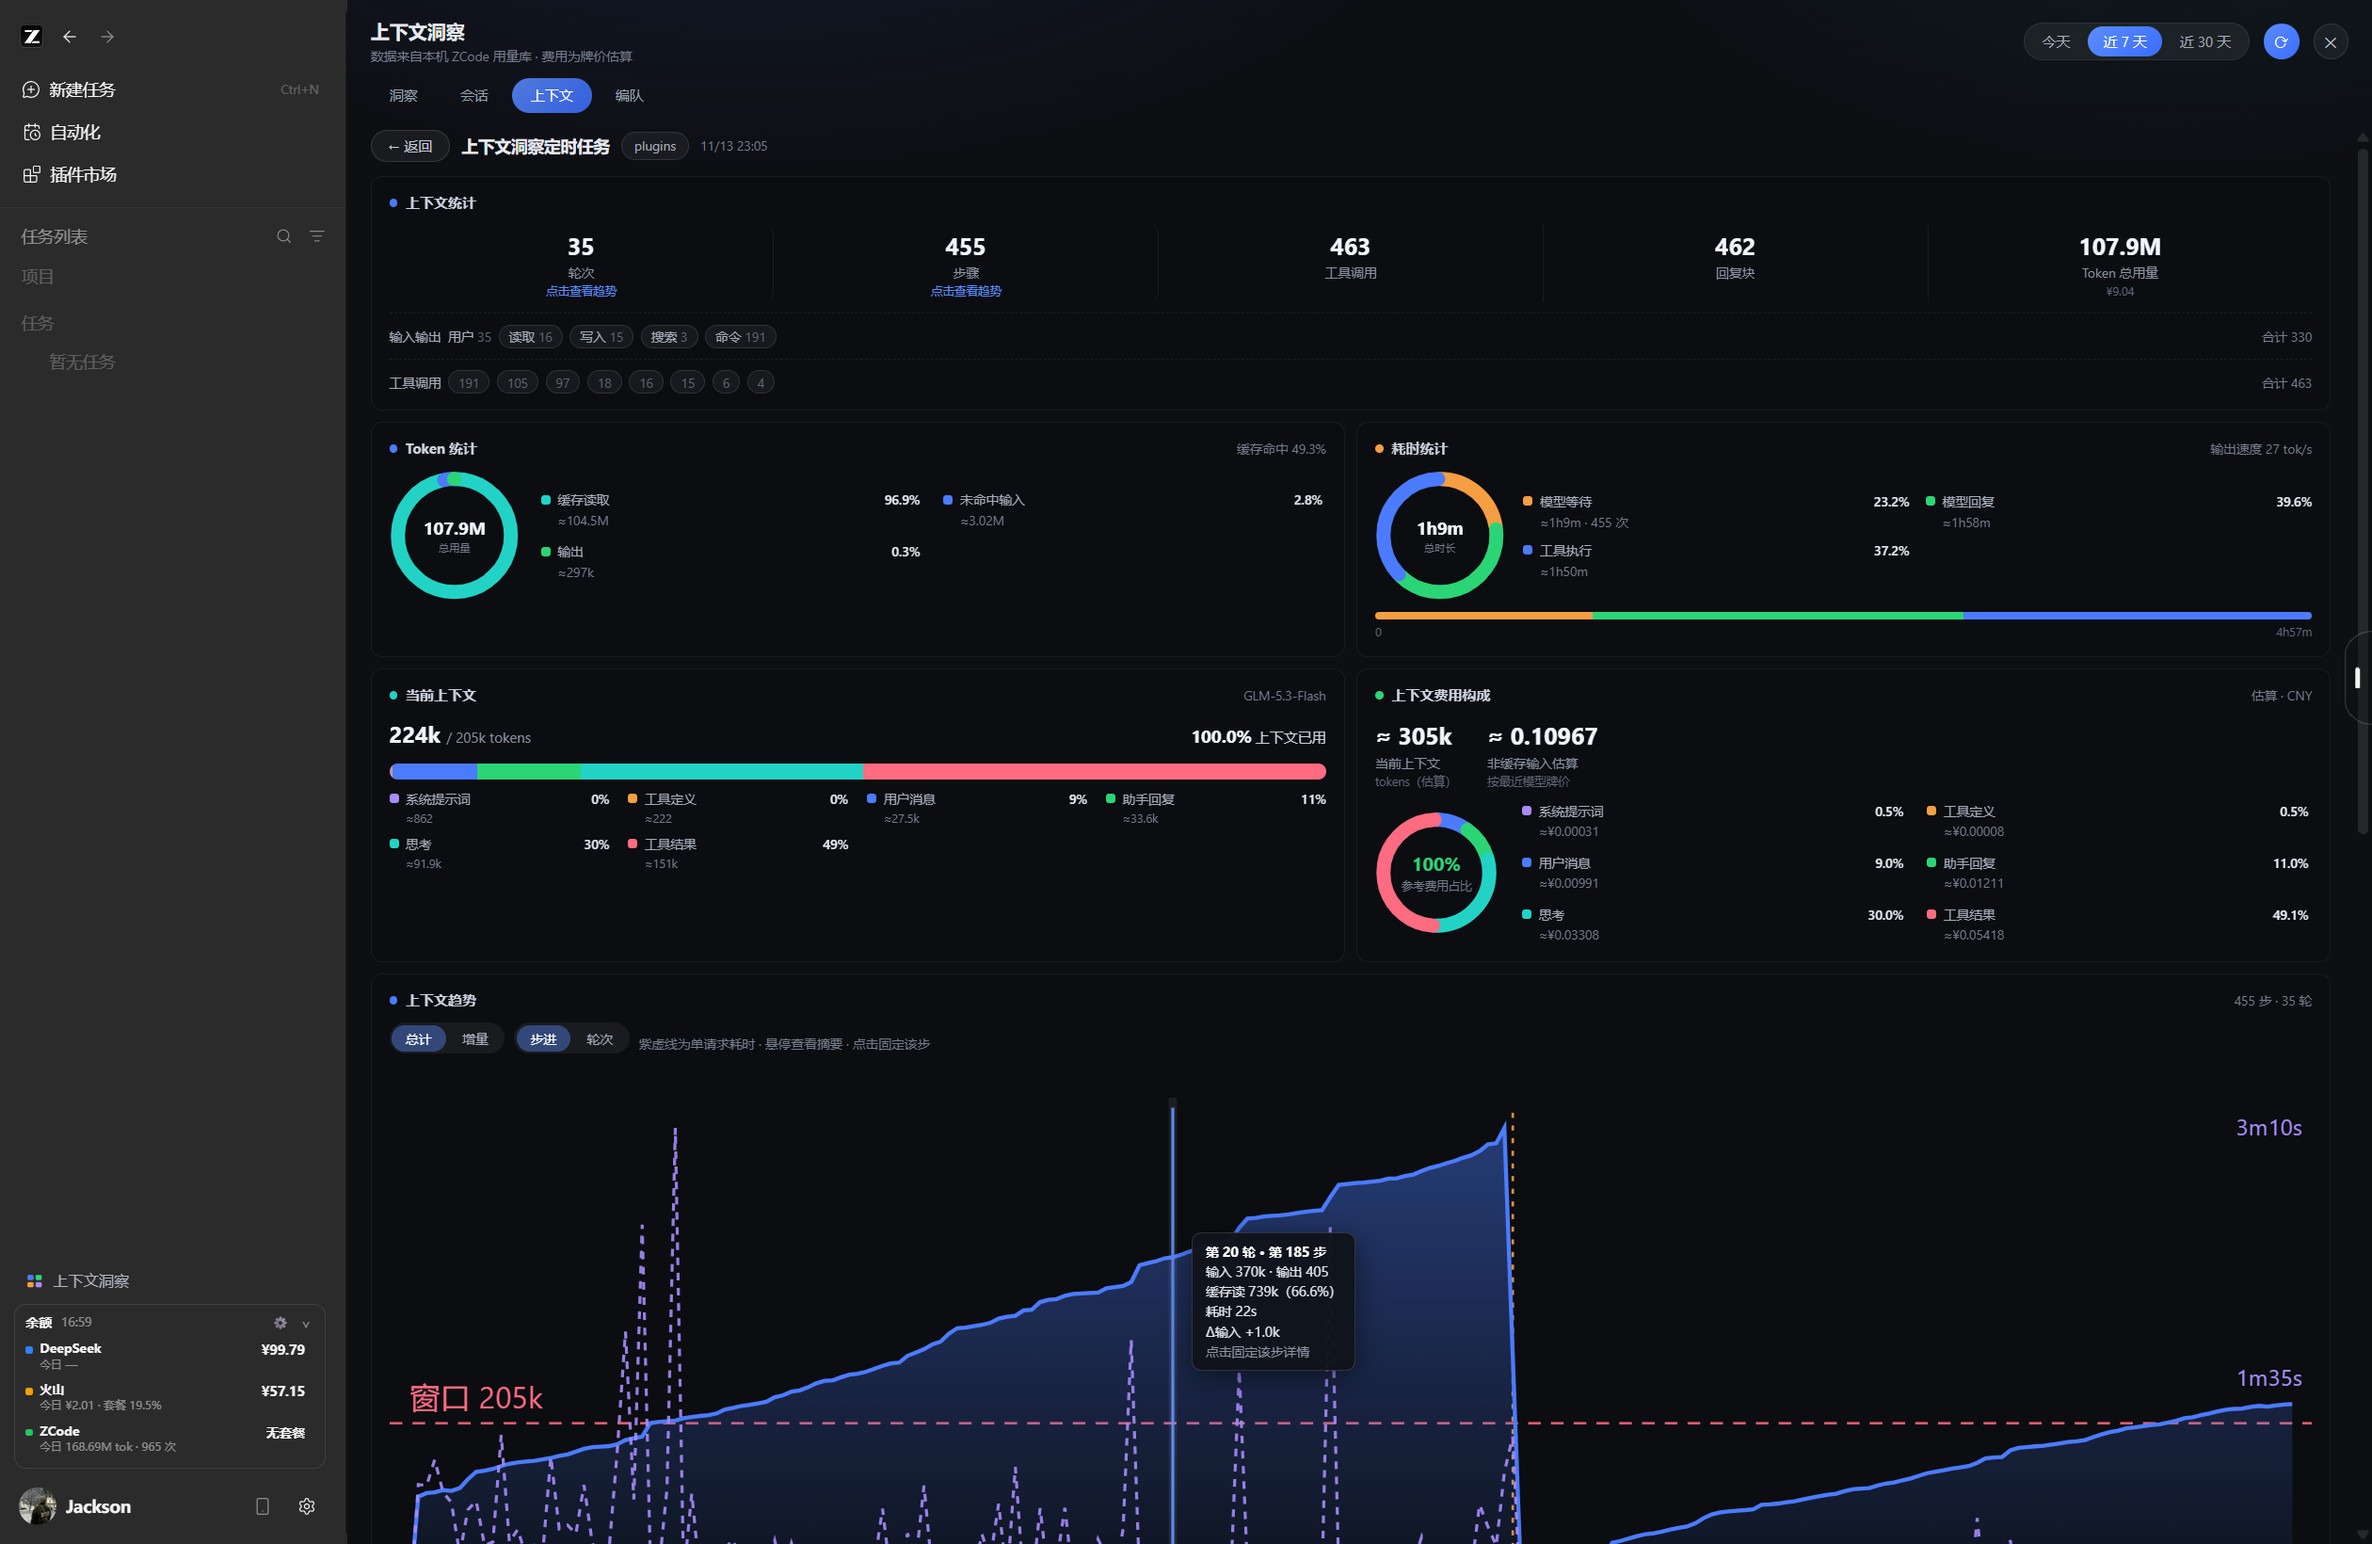
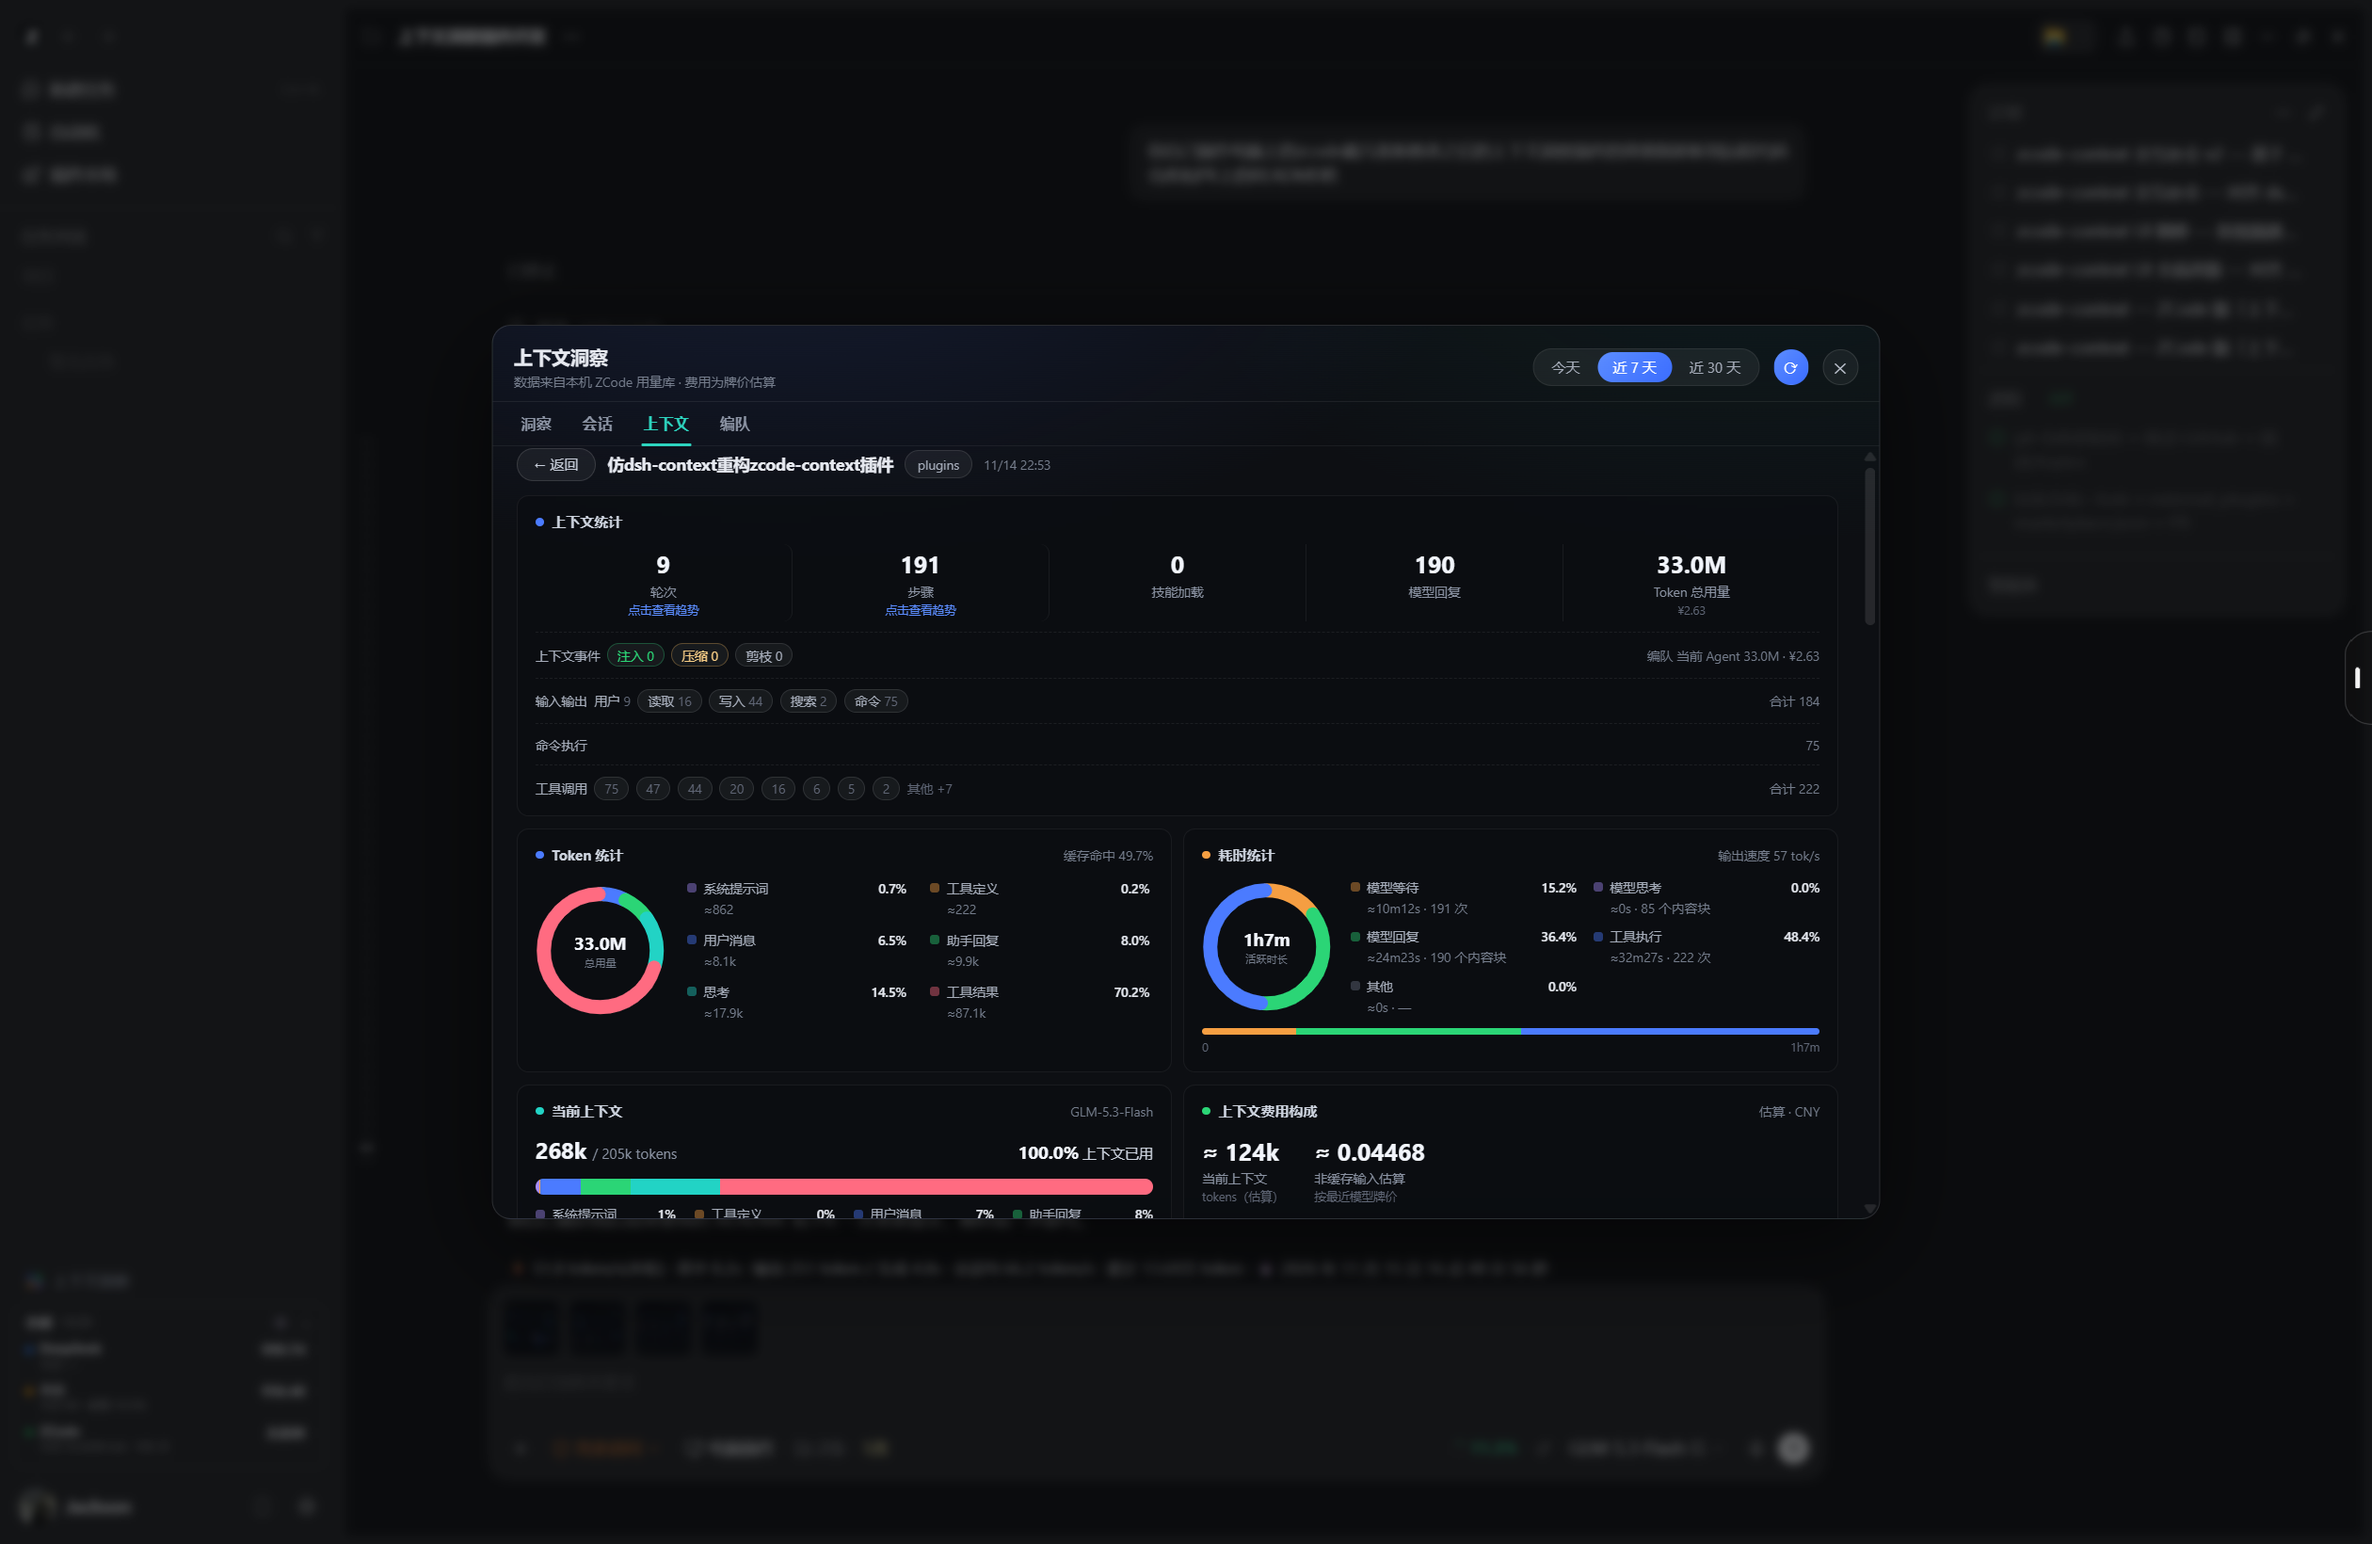
v0.3.8: modal dashboard + sidebar runtime sync + new screenshots
- Dashboard opens as centered modal dialog (dim backdrop, ESC/close/backdrop dismiss) instead of full-screen overlay
- Fix stale widget: hook now also syncs panel files to runtime/sidebar (the path the asar injection actually loads)
- Re-add ESC key listener on reopen
- Replace screenshots with real app captures (incl. formation tasks/inspector); README tour updated
- bump version 0.3.8

diff --git a/panel/panel-widget.js b/panel/panel-widget.js
@@ -47,10 +47,12 @@
 .zci-entry:hover{background:rgba(255,255,255,.08);color:#fff}
 .zci-entry svg{flex:0 0 auto}
 
-.zci-overlay{position:fixed;inset:0;z-index:99990;display:flex;flex-direction:column;color:#e6e9f0;font-size:12px;line-height:1.5;overflow:hidden;
+.zci-backdrop{position:fixed;inset:0;z-index:99989;background:rgba(5,7,10,.62);backdrop-filter:blur(4px);display:none}
+.zci-overlay{position:fixed;left:50%;top:50%;transform:translate(-50%,-50%);z-index:99990;width:min(1180px,calc(100vw - 80px));height:min(760px,calc(100vh - 90px));display:none;flex-direction:column;color:#e6e9f0;font-size:12px;line-height:1.5;overflow:hidden;
   font-family:-apple-system,'Segoe UI',system-ui,'PingFang SC','Microsoft YaHei',sans-serif;
-  background:#0d0f13;background-image:radial-gradient(1000px 460px at 20% -10%,rgba(70,110,255,.12),transparent 60%),radial-gradient(800px 420px at 90% -8%,rgba(34,211,197,.06),transparent 60%)}
-.zci-head{display:flex;align-items:center;gap:12px;padding:14px 20px 8px;flex:0 0 auto}
+  background:#0d0f13;background-image:radial-gradient(1000px 460px at 20% -10%,rgba(70,110,255,.12),transparent 60%),radial-gradient(800px 420px at 90% -8%,rgba(34,211,197,.06),transparent 60%);
+  border:1px solid rgba(255,255,255,.12);border-radius:16px;box-shadow:0 24px 80px rgba(0,0,0,.55)}
+.zci-head{display:flex;align-items:center;gap:12px;padding:14px 18px 8px;flex:0 0 auto;border-bottom:1px solid rgba(255,255,255,.07)}
 .zci-title h1{font-size:16px;font-weight:700;margin:0}
 .zci-title .sub{font-size:11px;color:#757d8c}
 .zci-spacer{flex:1}
@@ -2322,22 +2324,14 @@
       '<button class="zci-iconbtn zci-accent" data-refresh title="刷新">⟳</button>' +
       '<button class="zci-iconbtn" data-close title="关闭">✕</button></div>' +
       '<div class="zci-tabs"></div><div class="zci-body"></div>';
+    var backdrop = document.createElement("div");
+    backdrop.className = "zci-backdrop";
+    document.body.appendChild(backdrop);
     document.body.appendChild(overlay);
-    function syncOffset() {
-      var aside = findAside();
-      var w = 262;
-      try {
-        if (aside) {
-          var rect = aside.getBoundingClientRect();
-          if (rect && rect.width > 80) w = rect.width;
-        }
-      } catch {
-        // keep default
-      }
-      overlay.style.left = w + 6 + "px";
-    }
-    syncOffset();
-    window.addEventListener("resize", syncOffset);
+    backdrop.addEventListener("click", closeOverlay);
+    backdrop.style.display = "block";
+    overlay.style.display = "flex";
+    state.backdropEl = backdrop;
     state.overlayEl = overlay;
     state.tabsEl = overlay.querySelector(".zci-tabs");
     state.bodyEl = overlay.querySelector(".zci-body");
@@ -2366,12 +2360,15 @@
     if (!state.overlayEl) buildOverlay();
     else {
       state.overlayEl.style.display = "flex";
+      if (state.backdropEl) state.backdropEl.style.display = "block";
+      if (state.onKey) document.addEventListener("keydown", state.onKey, true);
       load();
     }
   }
 
   function closeOverlay() {
     if (state.overlayEl) state.overlayEl.style.display = "none";
+    if (state.backdropEl) state.backdropEl.style.display = "none";
     if (state.onKey) document.removeEventListener("keydown", state.onKey, true);
   }
 
@@ -2496,6 +2493,7 @@
       var style = document.getElementById("zci-style");
       if (style) style.remove();
       if (state.overlayEl) state.overlayEl.remove();
+      if (state.backdropEl) state.backdropEl.remove();
       document.removeEventListener("keydown", state.onKey, true);
       window.__zcodeContextPanelBooted = false;
     } catch (e) {

diff --git a/README.md b/README.md
@@ -18,7 +18,7 @@
 
 ## 📸 界面导览 / Screenshots
 
-插件共四个视图：**洞察（总览）→ 会话 → 上下文（单会话详情）→ 编队**。以下按页面逐一说明。
+点击侧边栏「上下文洞察」后以**居中弹框**打开完整面板（背景变暗，ESC / ✕ / 点击遮罩关闭）。插件共四个视图：**洞察（总览）→ 会话 → 上下文（单会话详情）→ 编队**。以下按页面逐一说明。
 
 ### 图 1 · 洞察页 — KPI 总览与用量趋势（Overview · KPIs & Usage）
 
@@ -71,15 +71,14 @@
 - **文件活动**：头标签兼筛选 **全部 / 读取 16 / 写入 15 / 编辑 105** + **路径搜索框**；每行显示文件名、最后操作时间、读/写/改计数（写绿色、改红色），**行点击展开完整路径与操作明细**。
 - 悬停任意元素均显示口径摘要 tooltip。
 
-### 图 6 · 上下文页 — 上下文浏览器（Context · Browser, DNA 模式）
+### 图 6 · 上下文页 — 当前上下文与费用构成（Context · Composition & Cost）
 
-![上下文页 · 上下文浏览器](docs/screenshots/06-context-browser.png)
+![上下文页 · 当前上下文与费用构成](docs/screenshots/06-context-composition.png)
 
-- **七分组可折叠列表**（对齐 dsh 上下文浏览器）：系统提示词 / 工具定义 / 用户消息 / 助手回复 / 思考 / 工具结果 / 注入内容。
-- 每组显示 ≈Token 与占比，消息类组带 **`+N 条` 绿色 delta 徽标**（如 +821 条、+462 块、+269 段、+463 条）。
-- **系统提示词组展开后显示快照前 400 字**（来自 `runtime/prompt_snapshot`）；**工具定义组展开显示全部工具名清单**。
-- **组与上方「当前上下文条」双向联动**：悬停任一侧，对应分段/分组互相高亮。
-- 右侧「上下文注入与事件」卡：本轮会话注入的系统提示词与工具定义条目数。
+- **当前上下文条**：当前窗口占用（如 268k / 205k tokens）与「100.0% 上下文已用」，分段显示 系统提示词 / 工具定义 / 用户消息 / 助手回复 / 思考 / 工具结果 六类构成；**悬停分段显示「≈值 · N%」**。
+- **上下文费用构成**：按六类 token 乘以最近模型牌价估算 CNY —— 当前上下文 tokens（估算）、非缓存输入估算，环形图显示「参考费用占比」，逐类给出 ≈tokens 与 ≈¥。
+- **组与上方「当前上下文条」双向联动**：悬停任一侧，对应分段互相高亮；「各部分计费」可展开逐类计费明细。
+
 
 ### 图 7 · 编队页（Formation）
 
@@ -90,7 +89,15 @@
   - **悬停子节点会点亮父链**：其余节点降透明，仅主节点与该子节点保持高亮；
   - **悬停弹出详情 tooltip**（Token、请求、活跃、子会话 id）；
   - **点击子节点直接打开该子会话的上下文详情**（子会话真实存在于本地库）。
-- **跨 Agent 协作**：按时间列出主/子 Agent 的每次请求事件（模型、输入 → 输出 token），行点击展开。
+- **跨 Agent 协作与事件检查见下图 8**。
+
+### 图 8 · 编队页 — 协作任务与事件检查（Formation · Tasks & Inspector）
+
+![编队页 · 协作任务与事件检查](docs/screenshots/08-formation-tasks.png)
+
+- **协作任务**：每个子 Agent 一行（彩色徽标 + 子 Agent · 空闲 状态），右侧汇总 Token / 费用 / 步数；行展开显示最近回报原文（Markdown 渲染）。
+- **状态筛选**：全部 / 进行中 / 待处理 / 已完成，附工作项计数；右侧搜索框按任务过滤。
+- **事件检查**：类型筛选 **全部 262 / 消息 257 / 回报 0 / 委派 5**；时间线每行显示时间、类型、模型与「输入 → 输出」token 流向，**行点击在右侧详情面板显示 时间 / 会话 id / 模型 / Token / 状态**。
 
 ---
 
